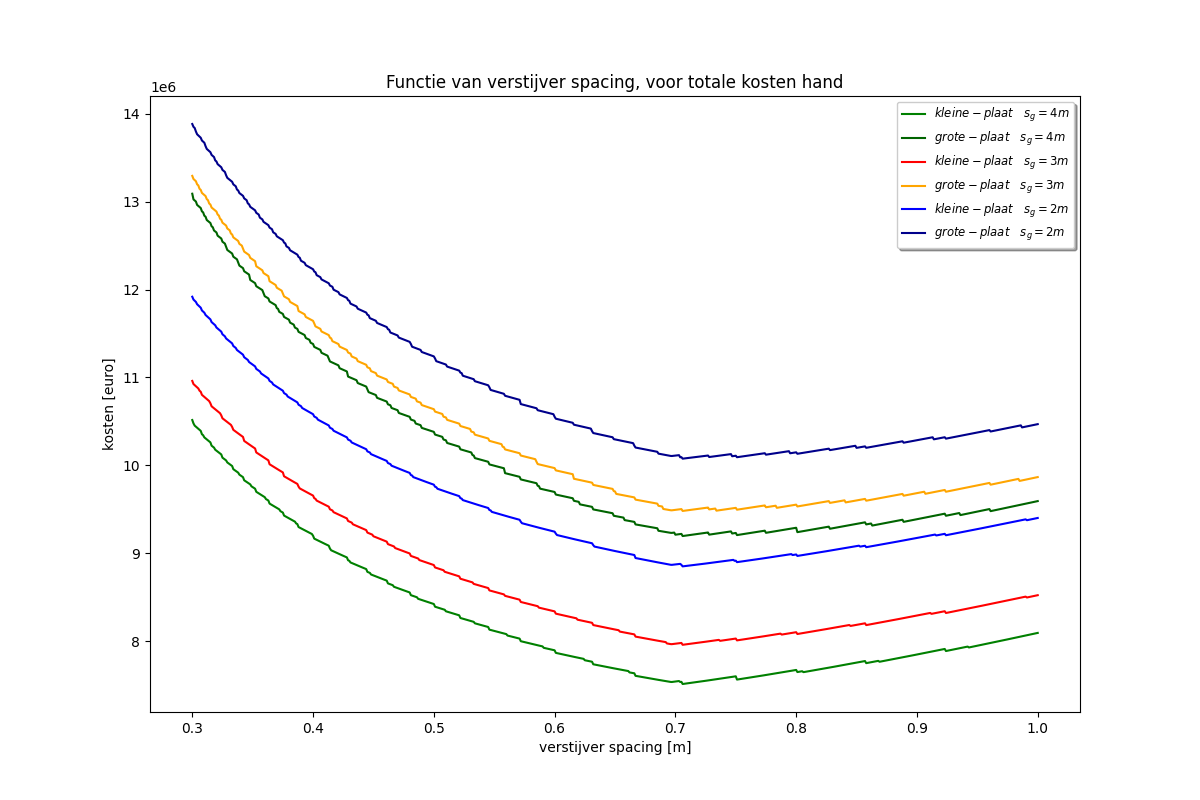
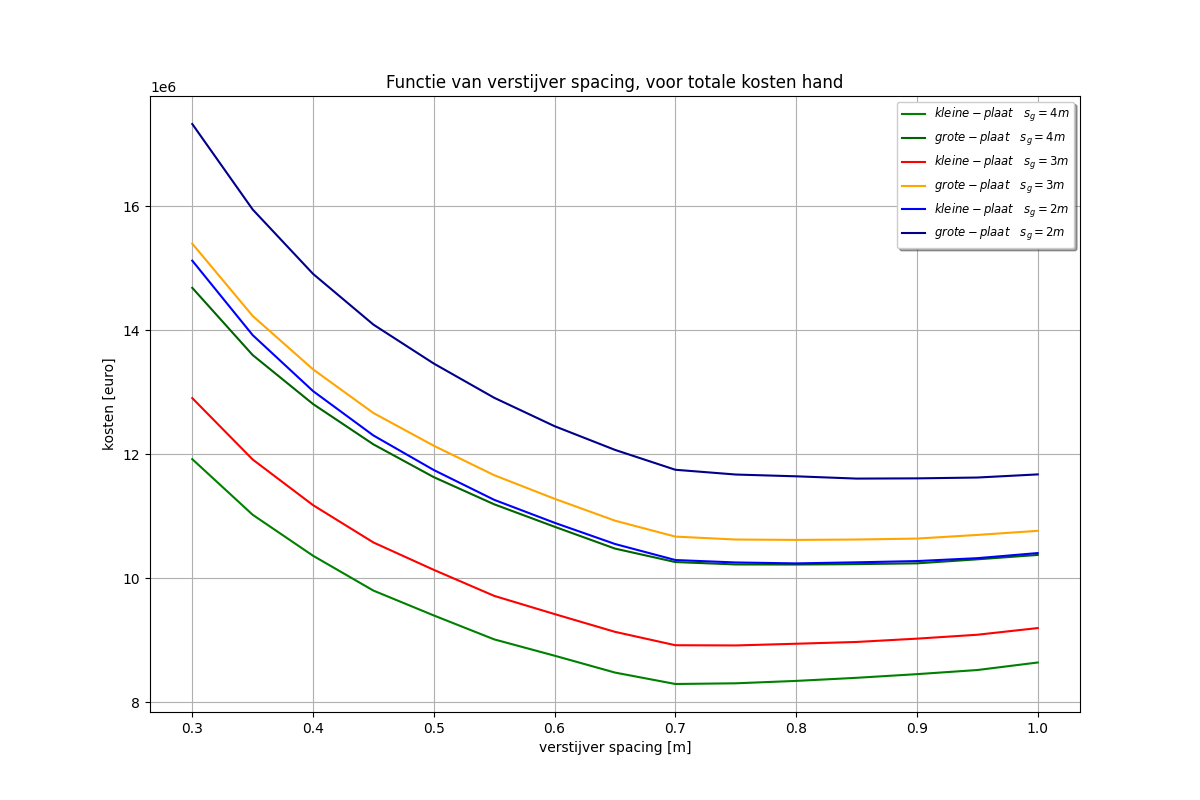
biem

diff --git a/construeren/plaatproductie/herkansing.py b/construeren/plaatproductie/herkansing.py
@@ -3,7 +3,7 @@ import numpy as np
 import math as m
 import scipy
 
-ss = np.linspace(0.3,1.0,701)
+ss = np.arange(0.3,1.001,0.05)
 groepsnummer = 2
 station  = 5
 uren = 8
@@ -44,8 +44,8 @@ class totaal():
         Fs = p*sg*bp/2
 
 
-        hvrang = np.sqrt(3/2)*np.sqrt(Mb * 1.2/(sigma_y*twg))
-        A_bulb = 0.40824829 * np.sqrt(Mb*twg*1.2/(sigma_y))
+        hvrang = 1.25
+        A_bulb = (((30*0.5)/15 ) + ((6*0.5)/12)) *sg * (np.sqrt((p*ss*tws)/(12*sigma_y )))
         nzaathout = 4
         aantal_jaar = capaciteit/A 
         nplaat = Bp/bp
@@ -95,8 +95,8 @@ class totaal():
         Fs = p*sg*bp/2
 
 
-        hvrang = np.sqrt(3/2)*np.sqrt(Mb * 1.2/(sigma_y*twg))
-        A_bulb = 0.40824829 * np.sqrt(Mb*twg*1.2/(sigma_y))
+        hvrang = 1.25
+        A_bulb = (((30*0.5)/15 ) + ((6*0.5)/12)) *sg * (np.sqrt((p*ss*tws)/(12*sigma_y )))
         nzaathout = 8
         aantal_jaar = capaciteit/(2*A) 
         nplaat = 2*Bp/bp
@@ -137,8 +137,8 @@ class totaal():
         Fs = p*sg*bp/2
 
 
-        hvrang = np.sqrt(3/2)*np.sqrt(Mb * 1.2/(sigma_y*twg))
-        A_bulb = 0.40824829 * np.sqrt(Mb*twg*1.2/(sigma_y))
+        hvrang = 1.25
+        A_bulb = (((30*0.5)/15 ) + ((6*0.5)/12)) *sg * (np.sqrt((p*ss*tws)/(12*sigma_y )))
         nzaathout = 4
         aantal_jaar = capaciteit/A 
         nplaat = Bp/bp
@@ -181,8 +181,8 @@ class totaal():
         Fs = p*sg*bp/2
 
 
-        hvrang = np.sqrt(3/2)*np.sqrt(Mb * 1.2/(sigma_y*twg))
-        A_bulb = 0.40824829 * np.sqrt(Mb*twg*1.2/(sigma_y))
+        hvrang = 1.25
+        A_bulb = (((30*0.5)/15 ) + ((6*0.5)/12)) *sg * (np.sqrt((p*ss*tws)/(12*sigma_y )))
         nzaathout = 8
         aantal_jaar = capaciteit/(2*A) 
         nplaat = 2*Bp/bp
@@ -256,6 +256,7 @@ def plot_totaal(titel):
     titeltje= "Functie van verstijver spacing, voor "+titel
     plt.title(titeltje)
     plt.legend(loc = "best", shadow = True, fontsize="small")
+    plt.grid()
     figure.savefig("./construeren/plaatproductie/"+titel+".png")
 
 def plot_vastekosten(titel):
@@ -273,6 +274,7 @@ def plot_vastekosten(titel):
     titeltje= "Functie van verstijver spacing, voor "+titel
     plt.title(titeltje)
     plt.legend(loc = "best", shadow = True, fontsize="small")
+    plt.grid()
     figure.savefig("./construeren/plaatproductie/"+titel+".png")
 
 def plot_personeel(titel):
@@ -290,6 +292,7 @@ def plot_personeel(titel):
     titeltje= "Functie van verstijver spacing, voor "+titel
     plt.title(titeltje)
     plt.legend(loc = "best", shadow = True, fontsize="small")
+    plt.grid()
     figure.savefig("./construeren/plaatproductie/"+titel+".png")
 
 def plot_materiaal(titel):
@@ -307,6 +310,7 @@ def plot_materiaal(titel):
     titeltje= "Functie van verstijver spacing, voor "+titel
     plt.title(titeltje)
     plt.legend(loc = "best", shadow = True, fontsize="small")
+    plt.grid()
     figure.savefig("./construeren/plaatproductie/"+titel+".png")
 
 def plot_totaal_robot(titel):
@@ -324,6 +328,7 @@ def plot_totaal_robot(titel):
     titeltje= "Functie van verstijver spacing, voor "+titel
     plt.title(titeltje)
     plt.legend(loc = "best", shadow = True, fontsize="small")
+    plt.grid()
     figure.savefig("./construeren/plaatproductie/"+titel+".png")
 
 def plot_vastekosten_robot(titel):
@@ -341,6 +346,7 @@ def plot_vastekosten_robot(titel):
     titeltje= "Functie van verstijver spacing, voor "+titel
     plt.title(titeltje)
     plt.legend(loc = "best", shadow = True, fontsize="small")
+    plt.grid()
     figure.savefig("./construeren/plaatproductie/"+titel+".png")
 
 def plot_personeel_robot(titel):
@@ -358,6 +364,7 @@ def plot_personeel_robot(titel):
     titeltje= "Functie van verstijver spacing, voor "+titel
     plt.title(titeltje)
     plt.legend(loc = "best", shadow = True, fontsize="small")
+    plt.grid()
     figure.savefig("./construeren/plaatproductie/"+titel+".png")
 
 
@@ -376,9 +383,47 @@ def bar_plot():
     titeltje= "Kosten in de vier scenarios"
     plt.title(titeltje)
     plt.legend(loc = "best", shadow = True, fontsize="small")
-    figure.savefig("./construeren/plaatproductie/barplot voor onze waardes.png")
+    plt.grid()
+    figure.savefig("./construeren/plaatproductie/barplot.png")
+
+def optel_plot(titel):
+    figure = plt.figure(figsize=(12,10))
+    ax = plt.subplot(111)
+    plt.plot(ss,k_h_4_tot, c="green"     ,label="$totaal \quad s_g = 4m$")
+    plt.plot(ss,k_h_4_mat, c="purple"     ,label="$materiaal \quad s_g = 4m$")
+    plt.plot(ss,k_h_4_per, c="red"     ,label="$personeel \quad s_g = 4m$")
+    plt.plot(ss,k_h_4_vast, c="orange"     ,label="$vast \quad s_g = 4m$")
+    plt.plot(ss,k_h_3_tot, c="green" ,linestyle="dashed"    ,label="$totaal \quad s_g = 3m$")
+    plt.plot(ss,k_h_3_mat, c="purple"  ,linestyle="dashed"   ,label="$materiaal \quad s_g = 3m$")
+    plt.plot(ss,k_h_3_per, c="red"   ,linestyle="dashed"  ,label="$personeel \quad s_g = 3m$")
+    plt.plot(ss,k_h_3_vast, c="orange"   ,linestyle="dotted"  ,label="$vast \quad s_g = 3m$")
+    plt.plot(ss,k_h_2_tot, c="green" ,linestyle="dotted"    ,label="$totaal \quad s_g = 2m$")
+    plt.plot(ss,k_h_2_mat, c="purple" ,linestyle="dotted"    ,label="$materiaal \quad s_g = 2m$")
+    plt.plot(ss,k_h_2_per, c="red"   ,linestyle="dotted"  ,label="$personeel \quad s_g = 2m$")
+    plt.plot(ss,k_h_2_vast, c="orange"   ,linestyle="dotted"  ,label="$vast \quad s_g = 2m$")
+    plt.xlabel("verstijver spacing [m]")
+    plt.ylabel("kosten [euro]")
+#    plt.ylim(0,20E6)
+    plt.ticklabel_format(style='sci', axis='y', scilimits=(6,6))
+    titeltje= "Functie van verstijver spacing, voor Kosen in een "+titel
+    plt.title(titeltje)
+    plt.grid()
+    
+        # Shrink current axis's height by 10% on the bottom
+    box = ax.get_position()
+    ax.set_position([box.x0, box.y0 + box.height * 0.1,
+                        box.width, box.height * 0.9])
+
+        # Put a legend below current axis
+    ax.legend(loc='upper center', bbox_to_anchor=(0.5, -0.1),
+                fancybox=True, shadow=True, ncol=3)
+    figure.savefig("./construeren/plaatproductie/"+titel+".png")
+
+
+optel_plot("optelplot")
 
 bar_plot()
+
 plot_vastekosten("vastekosten hand")
 
 plot_totaal("totale kosten hand")

diff --git a/WVA/Model WP.py b/WVA/Model WP.py
@@ -55,8 +55,12 @@ R_ts = 0.5*C_ts*rho_s*v_s**2*s_s
 v_s_vb = v_m_vb*m.sqrt(aL)
 Re_s_vb = (v_s_vb*L_s)/vis_s
 Re_m_vb = (v_m_vb*L_m)/vis_m
-C_ts_vb = 0.075/(np.log10(Re_s_vb)-2)**2 + (2*R_tm_vb)/(rho_m*v_m_vb**2*s_m) - 0.075/(np.log10(Re_m_vb)-2)**2
+C_fs_vb = 0.075/(np.log10(Re_s_vb)-2)**2
+C_rs_vb = (2*R_tm_vb)/(rho_m*v_m_vb**2*s_m) - 0.075/(np.log10(Re_m_vb)-2)**2
+C_ts_vb = C_fs_vb+C_rs_vb
 R_ts_vb = 0.5*C_ts_vb*rho_s*v_s_vb**2*s_s 
+R_fs_vb = 0.5*C_fs_vb*rho_s*v_s_vb**2*s_s 
+R_rs_vb = 0.5*C_rs_vb*rho_s*v_s_vb**2*s_s 
 
 
 label = np.array(["V_m[m/s]","R_tm[N]","Fr[-]","Re[-]","C_fm[-]","C_tm[-]","Fr^4/C_fm[-]","C_tm/C_fm[-]"])
@@ -114,12 +118,14 @@ f = np.poly1d(fit)
 x = np.linspace(0,7,100)
 
 def plot_R_v(titel):
-        figure = plt.figure(figsize=(19.20/2,10.80/2))
+        figure = plt.figure(figsize=(10,6))
         ax = plt.subplot(111)
         plt.ylabel(r"$R_s \; [N]$")
         plt.xlabel(r"$v_s \; [ms^{-1}]$")
         plt.title(titel)
-        plt.plot(v_s_vb,R_ts_vb,linestyle="dashed",marker=".",label="meetwaarden, teruggeschaald")
+        plt.plot(v_s_vb,R_ts_vb,linestyle="dashed",marker=".",label="totaleweerstand")
+        plt.plot(v_s_vb,R_fs_vb,linestyle="dashed",marker=".",label="wrijvingsweerstand")
+        plt.plot(v_s_vb,R_rs_vb,linestyle="dashed",marker=".",label="restweerstand")
         plt.plot(v_orgineel,R_orgineel,c="blue",label="model waarden, orgineel")
         plt.plot(v_aangepast,R_aangepast,c="orange",label="model waarden, nieuwe polynoom")
         plt.ticklabel_format(style='sci', axis='y', scilimits=(0,0))
@@ -132,8 +138,8 @@ def plot_R_v(titel):
                         box.width, box.height * 0.9])
 
         # Put a legend below current axis
-        ax.legend(loc='upper center', bbox_to_anchor=(0.5, -0.15),
-                fancybox=True, shadow=True, ncol=5)
+        ax.legend(loc='upper center', bbox_to_anchor=(0.5, -0.1),
+                fancybox=True, shadow=True, ncol=3)
 
         plt.savefig(titelfig)
 
@@ -142,53 +148,3 @@ R_v = R_v.T
 np.savetxt("tabel R,v.csv", R_v, delimiter=",",fmt='%10.3f')
 
 plot_R_v("scheepsweerstand met aangepast model")
-
-
-def plot_M_n(titel):
-        figure = plt.figure(figsize=(19.20/2,10.80/2))
-        ax = plt.subplot(111)
-        plt.ylabel(r"$M_b \; [Nm]$")
-        plt.xlabel(r"$n_e \; [s^{-1}]$")
-        plt.title(titel)
-        plt.plot(orgineel.n_e, orgineel.M_b,label="Koppel")
-        plt.ticklabel_format(style='sci', axis='y', scilimits=(0,0))
-        titelfig= "./Plots/"+titel+".png"
-        plt.grid()
-        
-        # Shrink current axis's height by 10% on the bottom
-        box = ax.get_position()
-        ax.set_position([box.x0, box.y0 + box.height * 0.1,
-                        box.width, box.height * 0.9])
-
-        # Put a legend below current axis
-        ax.legend(loc='upper center', bbox_to_anchor=(0.5, -0.15),
-                fancybox=True, shadow=True, ncol=5)
-
-        plt.savefig(titelfig)
-
-plot_M_n("Koppel-motor over toerental") 
-
-
-def plot_P_b(titel):
-        figure = plt.figure(figsize=(19.20/2,10.80/2))
-        ax = plt.subplot(111)
-        plt.ylabel(r"$P_b \; [W]$")
-        plt.xlabel(r"$n_e \; [s^{-1}]$")
-        plt.title(titel)
-        plt.plot(orgineel.n_e, orgineel.P_b,label="Vermogen")
-        plt.ticklabel_format(style='sci', axis='y', scilimits=(0,0))
-        titelfig= "./Plots/"+titel+".png"
-        plt.grid()
-        
-        # Shrink current axis's height by 10% on the bottom
-        box = ax.get_position()
-        ax.set_position([box.x0, box.y0 + box.height * 0.1,
-                        box.width, box.height * 0.9])
-
-        # Put a legend below current axis
-        ax.legend(loc='upper center', bbox_to_anchor=(0.5, -0.15),
-                fancybox=True, shadow=True, ncol=5)
-
-        plt.savefig(titelfig)
-
-plot_P_b("Vermogen-motor over toerental") 

diff --git a/WVA/Propulsion_system_python_compleet2023_metaanpassingen.py b/WVA/Propulsion_system_python_compleet2023_metaanpassingen.py
@@ -136,6 +136,10 @@ J = np.zeros(tmax)                # Advance ratio [-]
 start = time.perf_counter() 
  
 for k in range(tmax-1):
+    if X_parms[k+1] <= 0.2:
+        X_parms[k+1] = 0.2
+    elif X_parms[k+1] >= 1.0:
+        X_parms[k+1] = 1.0 
     # advance ratio
     J[k+1] = ((v_a[k] / n_p[k]) / D_p)
     # Thrust and torque

diff --git a/construeren/plaatproductie/losse stations.py b/construeren/plaatproductie/losse stations.py
@@ -3,7 +3,7 @@ import numpy as np
 import math as m
 import scipy
 
-ss = np.linspace(0.3,1.0,701)
+ss = np.arange(0.3,1.001,0.05)
 groepsnummer = 2
 station  = 5
 uren = 8
